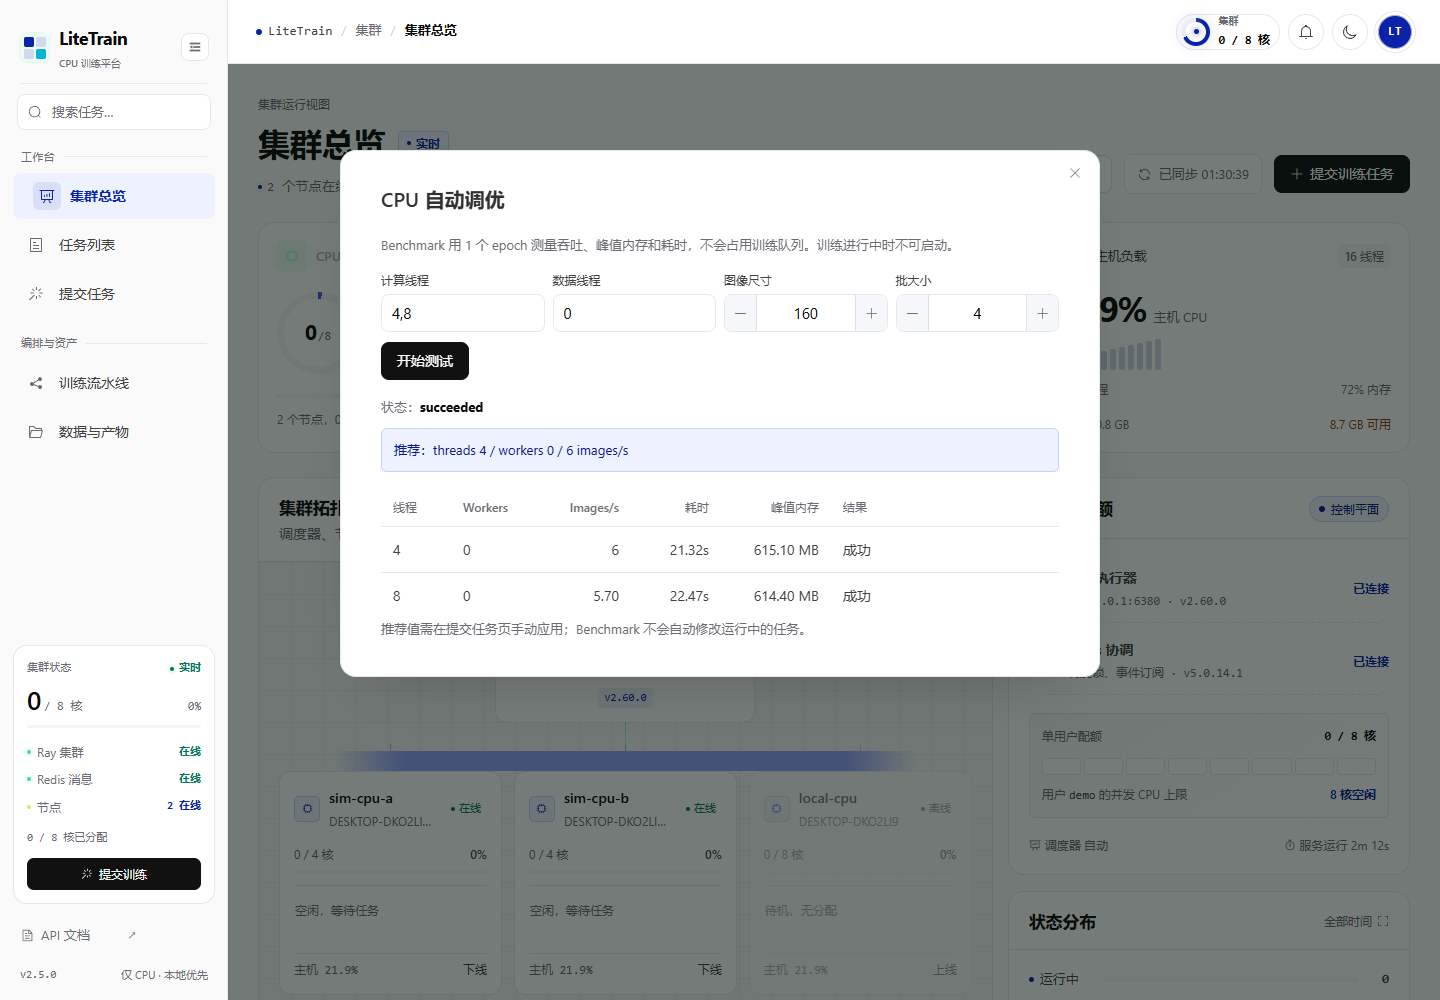
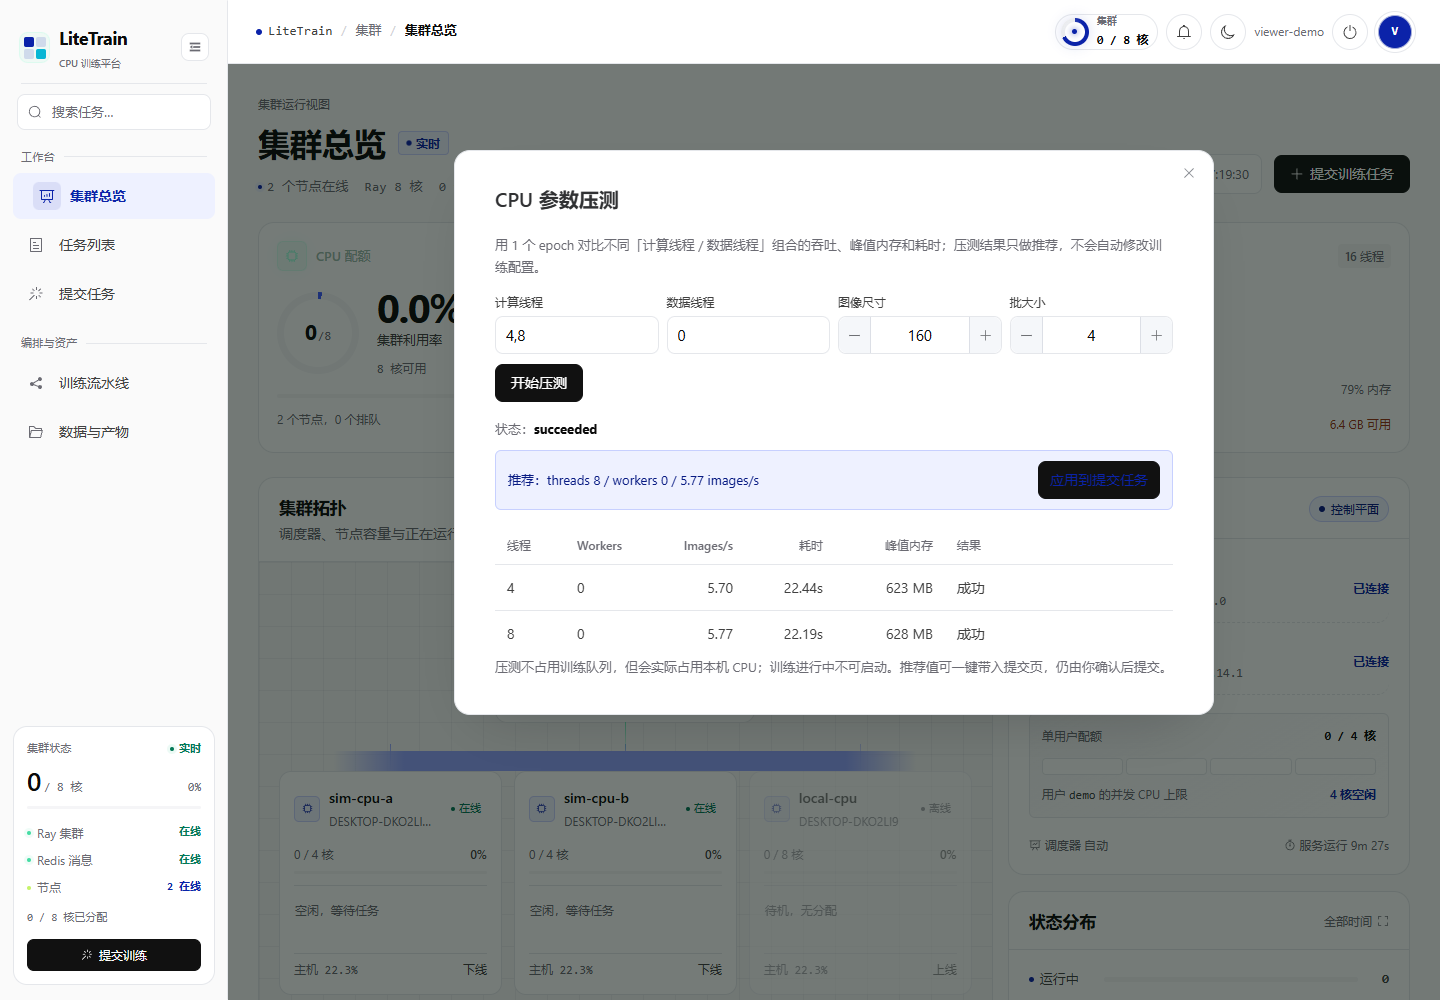
feat(benchmark): apply CPU profile to task submit

diff --git a/frontend/src/views/OverviewView.vue b/frontend/src/views/OverviewView.vue
@@ -202,8 +202,22 @@ function pollBenchmark() {
   }, 1800)
 }
 
-async function startBenchmark() {
-  const threads = benchmarkForm.value.threads
+function applyBenchmark() {
+  const selected = benchmarkSelected.value
+  if (!selected) {
+    ElMessage.warning('还没有可用的压测推荐')
+    return
+  }
+  const query: Record<string, string> = {}
+  for (const key of ['threads', 'workers', 'imgsz', 'batch'] as const) {
+    const value = selected[key]
+    if (value != null && value !== '') query[key === 'batch' ? 'batch_size' : key === 'threads' ? 'compute_threads' : key] = String(value)
+  }
+  benchmarkOpen.value = false
+  router.push({ name: 'task-submit', query })
+}
+
+async function startBenchmark() {  const threads = benchmarkForm.value.threads
     .split(',')
     .map((value) => Number(value.trim()))
     .filter((value) => Number.isFinite(value) && value > 0)
@@ -344,7 +358,7 @@ onBeforeUnmount(() => {
         </div>
       </div>
       <div class="page-actions">
-        <el-button :icon="Cpu" @click="openBenchmark">CPU 自动调优</el-button>
+        <el-button :icon="Cpu" @click="openBenchmark">CPU 参数压测</el-button>
         <button class="sync-chip" type="button" :class="{ spinning: refreshing }" @click="load(true)">
           <el-icon><Refresh /></el-icon>
           <span>已同步 {{ lastSync }}</span>
@@ -798,9 +812,9 @@ onBeforeUnmount(() => {
         </template>
       </el-dialog>
 
-      <el-dialog v-model="benchmarkOpen" title="CPU 自动调优" width="760px">
+      <el-dialog v-model="benchmarkOpen" title="CPU 参数压测" width="760px">
         <p class="benchmark-intro">
-          Benchmark 用 1 个 epoch 测量吞吐、峰值内存和耗时，不会占用训练队列。训练进行中时不可启动。
+          用 1 个 epoch 对比不同「计算线程 / 数据线程」组合的吞吐、峰值内存和耗时；压测结果只做推荐，不会自动修改训练配置。
         </p>
         <div class="benchmark-form">
           <label class="benchmark-field">
@@ -838,7 +852,7 @@ onBeforeUnmount(() => {
               aria-label="批大小"
             />
           </label>
-          <el-button type="primary" :loading="benchmarkBusy" @click="startBenchmark">开始测试</el-button>
+          <el-button type="primary" :loading="benchmarkBusy" @click="startBenchmark">开始压测</el-button>
         </div>
 
         <div v-if="benchmark" class="benchmark-status">
@@ -847,9 +861,12 @@ onBeforeUnmount(() => {
         </div>
 
         <div v-if="benchmarkSelected" class="benchmark-selected">
-          推荐：threads {{ benchValue(benchmarkSelected, 'threads') }} / workers
-          {{ benchValue(benchmarkSelected, 'workers') }} /
-          {{ benchValue(benchmarkSelected, 'images_per_second') }} images/s
+          <div>
+            推荐：threads {{ benchValue(benchmarkSelected, 'threads') }} / workers
+            {{ benchValue(benchmarkSelected, 'workers') }} /
+            {{ benchValue(benchmarkSelected, 'images_per_second') }} images/s
+          </div>
+          <el-button size="small" type="primary" plain @click="applyBenchmark">应用到提交任务</el-button>
         </div>
 
         <el-table v-if="benchmarkResults.length" :data="benchmarkResults" class="benchmark-table">
@@ -877,7 +894,7 @@ onBeforeUnmount(() => {
           </el-table-column>
         </el-table>
         <p class="benchmark-intro">
-          推荐值需在提交任务页手动应用；Benchmark 不会自动修改运行中的任务。
+          压测不占用训练队列，但会实际占用本机 CPU；训练进行中不可启动。推荐值可一键带入提交页，仍由你确认后提交。
         </p>
       </el-dialog>
 
@@ -3553,6 +3570,11 @@ html.dark .accent-card {
 }
 
 .benchmark-selected {
+  display: flex;
+  align-items: center;
+  justify-content: space-between;
+  gap: 12px;
+  flex-wrap: wrap;
   margin-top: 10px;
   padding: 10px 12px;
   border: 1px solid var(--accent-line);

diff --git a/frontend/src/views/TaskSubmitView.vue b/frontend/src/views/TaskSubmitView.vue
@@ -228,6 +228,35 @@ async function loadOptions() {
       ),
       workers: data.defaults.workers,
     })
+    let appliedBenchmark = false
+    const queryThreads = Number(route.query.compute_threads)
+    if (Number.isInteger(queryThreads) && queryThreads > 0) {
+      const threads = Math.min(queryThreads, maxCpu.value)
+      if (threads !== queryThreads) {
+        ElMessage.warning(`压测推荐 ${queryThreads} 线程，超过当前可用 CPU，已限制为 ${threads}`)
+      }
+      form.cpu_cores = Math.max(form.cpu_cores, threads)
+      form.compute_threads = threads
+      appliedBenchmark = true
+    }
+    const queryWorkers = Number(route.query.workers)
+    if (Number.isInteger(queryWorkers) && queryWorkers >= 0 && queryWorkers <= 8) {
+      form.workers = queryWorkers
+      appliedBenchmark = true
+    }
+    const queryImgsz = Number(route.query.imgsz)
+    if (imageSizes.includes(queryImgsz)) {
+      form.imgsz = queryImgsz
+      appliedBenchmark = true
+    }
+    const queryBatch = Number(route.query.batch_size)
+    if (Number.isInteger(queryBatch) && queryBatch >= 1 && queryBatch <= 64) {
+      form.batch_size = queryBatch
+      appliedBenchmark = true
+    }
+    if (appliedBenchmark) {
+      ElMessage.info('已应用 CPU 压测推荐，请确认配置后提交')
+    }
     const selected = datasetRecord.value
     form.dataset_id = selected?.id ?? null
     await nextTick()

diff --git a/docs/screenshots/README.md b/docs/screenshots/README.md
@@ -39,7 +39,7 @@ measure 4.5:1–19.0:1.
 | `task-limits.png` | Submit form warning when a value exceeds the admin runtime cap |
 | `preemption.png` | Cancelled preempted task with checkpoint resume hint |
 | `rerun-inplace.png` | Same task rerun with attempt history preserved |
-| `benchmark.png` | CPU benchmark result and selected thread/worker profile |
+| `benchmark.png` | CPU parameter benchmark result and selected thread/worker profile |
 | `compare.png` | Two-run comparison with dataset compatibility warning |
 | `distribution.png` | Expanded task status distribution with 5m–180d range selector |
 | `rerun.png` | Finished task with one-click rerun action |
